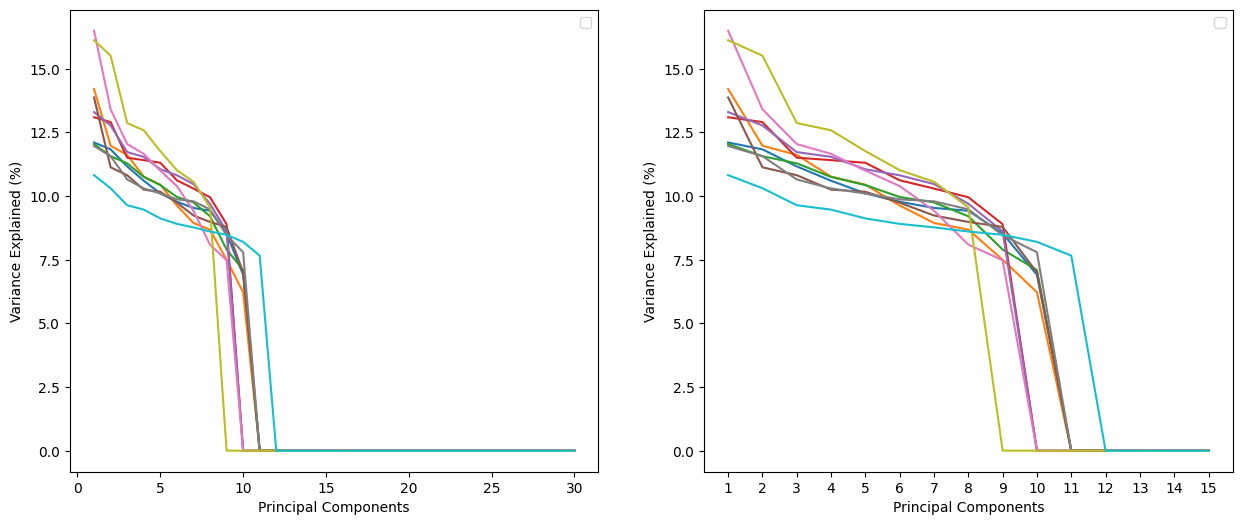
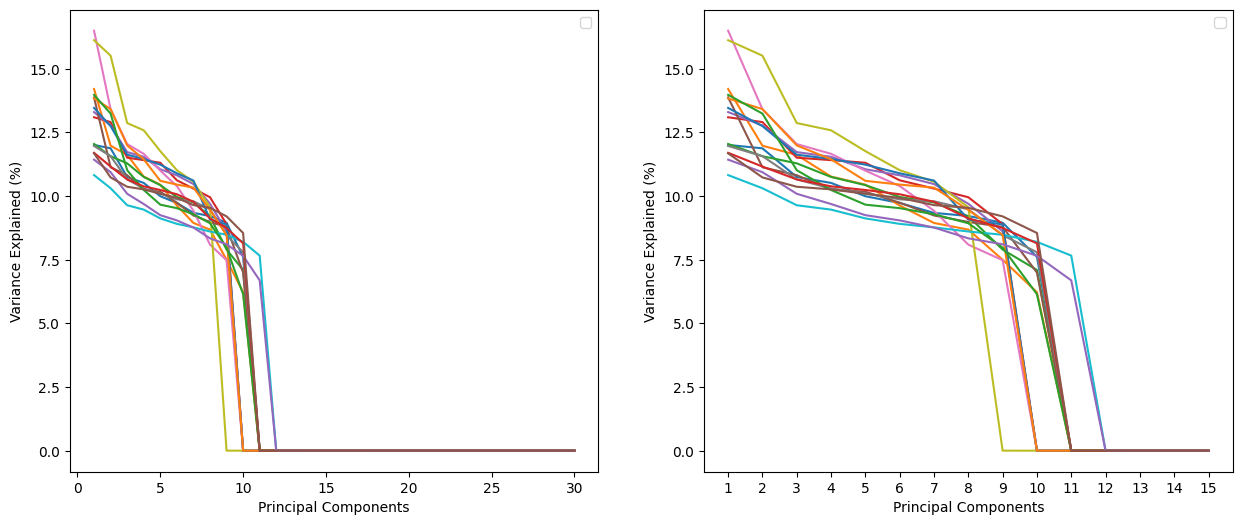
Code

Changed region(s): [[0.5813, 0.1829, 0.9791, 0.8838], [0.0612, 0.2438, 0.4589, 0.8838], [0.0612, 0.1829, 0.0918, 0.2438]]

diff --git a/comparison-extracted_features.py b/comparison-extracted_features.py
@@ -191,9 +191,9 @@ for run in [run]:
     # extracted_features = extracted_features[:len(all_properties)]
 
     # perform pca on the extracted features
-    pca = PCA(n_components=0.999, svd_solver="full").fit(extracted_features)
-    extracted_features = pca.transform(extracted_features)
-    extracted_features = extracted_features[:len(all_properties)]
+    # pca = PCA(n_components=0.999, svd_solver="full").fit(extracted_features)
+    # extracted_features = pca.transform(extracted_features)
+    # extracted_features = extracted_features[:len(all_properties)]
 
     # print(pca.explained_variance_ratio_)
 
@@ -227,10 +227,10 @@ for run in [run]:
 
 
     # ellipticals only
-    spiral_indices = all_properties[all_properties["DiscToTotal"] < 0.1].index.tolist()
-    print(spiral_indices)
-    extracted_features = extracted_features[spiral_indices]
-    all_properties = all_properties[all_properties["DiscToTotal"] < 0.1]
+    # spiral_indices = all_properties[all_properties["DiscToTotal"] < 0.1].index.tolist()
+    # print(spiral_indices)
+    # extracted_features = extracted_features[spiral_indices]
+    # all_properties = all_properties[all_properties["DiscToTotal"] < 0.1]
 
 
     # transitional
@@ -329,7 +329,7 @@ for run in [run]:
     # plt.savefig("Variational Eagle/Correlation Plots/fully_balanced_" + str(encoding_dim) + "_feature_vae_all_property_correlation_" + str(run), bbox_inches='tight')
     # plt.savefig("Variational Eagle/Correlation Plots/Correlation Fully Balanced/" + str(encoding_dim) + "_feature_" + str(epochs) + "_epoch_" + str(batch_size) + "_bs_correlation_" + str(run), bbox_inches='tight')
     # plt.savefig("Variational Eagle/Correlation Plots/Final/top_4_pca_" + str(encoding_dim) + "_feature_" + str(epochs) + "_epoch_correlation_" + str(run), bbox_inches='tight')
-    plt.savefig("Variational Eagle/Correlation Plots/Normalising Flows Balanced/PCA/latent_" + str(encoding_dim) + "_beta_" + beta_name + "_epoch_" + str(epochs) + "_flows_" + str(n_flows) + "_" + str(run) + "_ellipticals_2", bbox_inches='tight')
+    plt.savefig("Variational Eagle/Correlation Plots/Normalising Flows Balanced/Normal/latent_" + str(encoding_dim) + "_beta_" + beta_name + "_epoch_" + str(epochs) + "_flows_" + str(n_flows) + "_" + str(run) + "_balanced_dcor", bbox_inches='tight')
     plt.show(block=False)
     plt.close()
 
@@ -440,13 +440,15 @@ def density_scatter(x ,y, axs, **kwargs):
 
 
 
-fig, axs = plt.subplots(1, 1, figsize=(12, 10))
+# fig, axs = plt.subplots(1, 1, figsize=(12, 10))
+#
+# density_scatter(extracted_features.T[3], all_properties["q_r"], axs=axs, s=5)
+# # axs.set_xlabel("")
+# # axs.set_ylabel("Disk-Total Ratio")
+#
+# plt.show()
 
-density_scatter(extracted_features.T[3], all_properties["q_r"], axs=axs, s=5)
-# axs.set_xlabel("")
-# axs.set_ylabel("Disk-Total Ratio")
 
-plt.show()
 
 # fig, axs = plt.subplots(1, 1, figsize=(12, 10))
 #
@@ -457,22 +459,24 @@ plt.show()
 # plt.show()
 
 
-# fig, axs = plt.subplots(1, 3, figsize=(20, 5))
-#
-# density_scatter(extracted_features.T[1], all_properties["DiscToTotal"], axs=axs[0], s=5)
-# axs[0].set_xlabel("Feature 1")
-# axs[0].set_ylabel("Disk-Total Ratio")
-#
-# density_scatter(extracted_features.T[3], all_properties["DiscToTotal"], axs=axs[1], s=5)
-# axs[1].set_xlabel("Feature 3")
-# axs[1].set_ylabel("Disk-Total Ratio")
-#
-# density_scatter(extracted_features.T[6], all_properties["DiscToTotal"], axs=axs[2], s=5)
-# axs[2].set_xlabel("Feature 6")
-# axs[2].set_ylabel("Disk-Total Ratio")
-#
-#
-# plt.show()
+
+
+fig, axs = plt.subplots(1, 3, figsize=(20, 5))
+
+density_scatter(extracted_features.T[0], all_properties["n_r"], axs=axs[0], s=5)
+axs[0].set_xlabel("Feature 1")
+axs[0].set_ylabel("Disk-Total Ratio")
+
+density_scatter(extracted_features.T[0], all_properties["DiscToTotal"], axs=axs[1], s=5)
+axs[1].set_xlabel("Feature 3")
+axs[1].set_ylabel("Disk-Total Ratio")
+
+density_scatter(extracted_features.T[9], all_properties["n_r"], axs=axs[2], s=5)
+axs[2].set_xlabel("Feature 6")
+axs[2].set_ylabel("Disk-Total Ratio")
+
+
+plt.show()
 
 
 

diff --git a/pca.py b/pca.py
@@ -27,39 +27,39 @@ np.set_printoptions(linewidth=np.inf)
 
 # pca scree plot
 
-# fig, axs = plt.subplots(1, 2, figsize=(15, 6))
-#
-# for run in range(1, 11):
-#
-#     # extracted_features = np.load("Variational Eagle/Extracted Features/Final/bce_latent_" + str(encoding_dim) + "_beta_" + beta_name + "_epoch_300_" + str(run) + ".npy")[0]
-#     extracted_features = np.load("Variational Eagle/Extracted Features/Normalising Flow Balanced/planar_new_latent_" + str(encoding_dim) + "_beta_" + beta_name + "_epoch_750_flows_" + str(n_flows) + "_" + str(run) + "_default_transformed.npy")
-#
-#
-#     print(len(extracted_features))
-#
-#     pca = PCA(n_components=encoding_dim, svd_solver="full").fit(extracted_features)
-#     axs[0].plot(range(1, encoding_dim+1), pca.explained_variance_ratio_*100)
-#     axs[1].plot(range(1, 16), pca.explained_variance_ratio_[:15]*100)
-#     # print(pca.explained_variance_ratio_)
-#     # print(pca.explained_variance_ratio_.shape)
-#
-#     pca = PCA(n_components=0.99, svd_solver="full").fit(extracted_features)
-#     print(pca.explained_variance_ratio_.shape)
-#
-# axs[0].set_ylabel("Variance Explained (%)")
-# axs[0].set_xlabel("Principal Components")
-#
-# axs[1].set_ylabel("Variance Explained (%)")
-# axs[1].set_xlabel("Principal Components")
-#
-# # axs[0].set_xticks(range(1, encoding_dim+1))
-# axs[1].set_xticks(range(1, 16))
-#
-# axs[0].legend()
-# axs[1].legend()
-#
-# plt.savefig("Variational Eagle/Plots/pca_scree", bbox_inches="tight")
-# plt.show()
+fig, axs = plt.subplots(1, 2, figsize=(15, 6))
+
+for run in range(1, 17):
+
+    # extracted_features = np.load("Variational Eagle/Extracted Features/Final/bce_latent_" + str(encoding_dim) + "_beta_" + beta_name + "_epoch_300_" + str(run) + ".npy")[0]
+    extracted_features = np.load("Variational Eagle/Extracted Features/Normalising Flow Balanced/planar_new_latent_" + str(encoding_dim) + "_beta_" + beta_name + "_epoch_750_flows_" + str(n_flows) + "_" + str(run) + "_default_transformed.npy")
+
+
+    print(len(extracted_features))
+
+    pca = PCA(n_components=encoding_dim, svd_solver="full").fit(extracted_features)
+    axs[0].plot(range(1, encoding_dim+1), pca.explained_variance_ratio_*100)
+    axs[1].plot(range(1, 16), pca.explained_variance_ratio_[:15]*100)
+    # print(pca.explained_variance_ratio_)
+    # print(pca.explained_variance_ratio_.shape)
+
+    pca = PCA(n_components=0.99, svd_solver="full").fit(extracted_features)
+    print(pca.explained_variance_ratio_.shape)
+
+axs[0].set_ylabel("Variance Explained (%)")
+axs[0].set_xlabel("Principal Components")
+
+axs[1].set_ylabel("Variance Explained (%)")
+axs[1].set_xlabel("Principal Components")
+
+# axs[0].set_xticks(range(1, encoding_dim+1))
+axs[1].set_xticks(range(1, 16))
+
+axs[0].legend()
+axs[1].legend()
+
+plt.savefig("Variational Eagle/Plots/pca_scree", bbox_inches="tight")
+plt.show()
 
 
 
